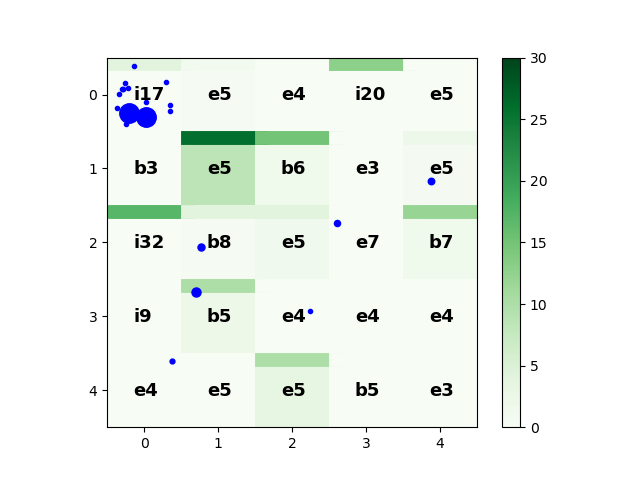
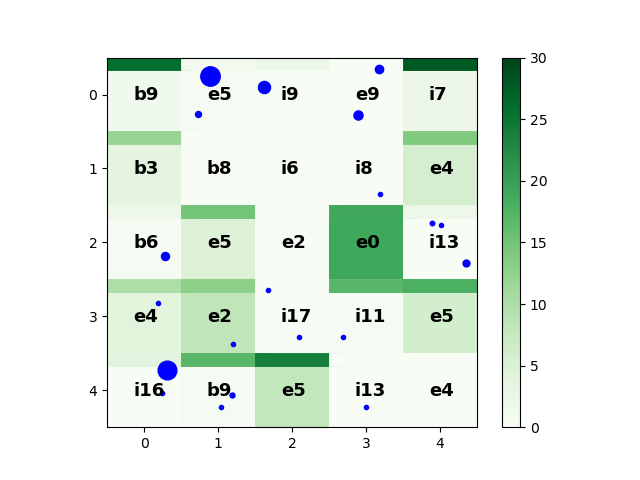
attempted implementing probCells

diff --git a/classScientist.py b/classScientist.py
@@ -6,8 +6,9 @@ class Scientist():
     def __init__(self):
         self.career = np.random.randint(1, 31)
         # citcount and impact corresponds to where you are in your career
-        self.impact = abs(np.random.randint(20 - self.career, 35 - self.career))
-        self.citcount = abs(np.random.randint(20 - self.career, 35 - self.career))
+        # they should be at least one so we don't divide by 0
+        self.impact = abs(np.random.randint(20 - self.career, 35 - self.career)) + 1
+        self.citcount = abs(np.random.randint(20 - self.career, 35 - self.career)) + 1
 
     def __repr__(self):
         """String representation of Scientist"""
@@ -17,30 +18,49 @@ class Scientist():
         """calculates starFactor based on scientist's parameters"""
         overall = ((self.impact-(31 - self.career)) + (self.citcount-(31 - self.career)))/(31 - self.career) 
         return overall
-    
-    def probCell(self, weights, board):
+
+    def probCell(self, board, weights):
         # Define the weights
-        c = weights["citation"]
-        i = weights["impact"]
+        c = weights["citation"] * (1/self.citcount)
+        i = weights["impact"] * (1/self.impact)
         e = weights["exploration"]
 
 
         # Calculate the probabilities for each cell
-        probabilities = np.zeros_like(board)
+        probabilities = np.zeros_like(board.board)
 
         denominator = 0
         for x in range(board.rows):
             for y in range(board.cols):
-                denominator += np.exp((c * self.citcount) + (i * self.impact) + (e * board[x, y]))
+                # i should be associated with board payoff value
+                # e should be associated with numHits on the cell
+                # c should be associated with num scientists on the cell
+                denominator += np.exp((c * board.board[x][y].numSciHits) + (i * board.board[x][y].payoff) + (e * board.board[x][y].numHits))
         for j in range(board.rows):
             for k in range(board.cols):
-                X1 = board[j, k]
+                X1 = board.board[j][k]
                 
-                numerator = np.exp((c * self.citcount) + (i * self.impact) + (e * X1))
+                numerator = np.exp((c * X1.numSciHits) + (i * X1.payoff) + (e * X1.numHits))
                 
-                probabilities[j, k] = numerator / denominator
+                probabilities[j][k] = numerator / denominator
 
         return probabilities
+
+    def chooseCell(self, board, weights):
+        """chooses cell to query"""
+        probs = self.probCell(board, weights)
+
+        flatProbs = [item for sublist in probs for item in sublist]
+        flatBoard = [board.board[i][j].location for j in range(board.cols) for i in range(board.rows)]
+        choice = random.choices(flatBoard, weights=flatProbs, k=1)
+
+        return choice[0]
+
+    def sciQuery(self, location, board):
+        """scientist queries chosen cell"""
+        self.impact += board.board[location[0]][location[1]].cellQuery(board)
+        self.career -= 1
+        return self.impact
 
     def citeProbs(self, val):
         """probability distribution of citing scientists in a cell"""
@@ -72,43 +92,3 @@ class Scientist():
                 if val[i] != self:
                     val[i].citcount += 1
         return
-
-    def probHerd(self):
-        """generate the probability of the scientist following the herd 
-        based on h index and career"""
-        pHerd = abs((self.impact-(31 - self.career))/(31 - self.career))
-        if (self.impact > (31 - self.career)):
-            if pHerd > 1:
-                pHerd = 0
-            else:
-                pHerd = 1 - pHerd
-        else:
-            if pHerd > 1:
-                pHerd = 1
-        return pHerd
-
-    def chooseCell(self, board, weights):
-        """decides which cell the scientist will query according to payoff"""
-        # dictionary of discovered cells' locations and payoff values
-        discoveredPayoffs = {}
-        maxPayoff = 0.0
-
-        for x in board.discovered:
-            discoveredPayoffs.update({board.board[x[0]][x[1]].payoff : board.board[x[0]][x[1]]})
-
-        choice = np.random.binomial(1, self.probHerd())
-        # choice = 1 --> they follow the herd
-        if (choice == 1 and len(list(discoveredPayoffs.keys())) > 0) or (choice == 0 and len(board.undiscovered) == 0):
-                maxPayoff = max(list(discoveredPayoffs.keys()))
-                location = discoveredPayoffs.get(maxPayoff).location
-        # choice = 0 --> choose randomly from undiscovered cells
-        else:
-            location = random.choice(board.undiscovered)
-
-        return location
-
-    def sciQuery(self, location, board):
-        """scientist queries chosen cell"""
-        self.impact += board.board[location[0]][location[1]].cellQuery(board)
-        self.career -= 1
-        return self.impact

diff --git a/classBoard.py b/classBoard.py
@@ -42,11 +42,11 @@ class Board():
                 # compare to original payoff color
                 plt.axhline(y = j-0.41, xmin = i/self.cols+0.019, xmax = (i+1)/self.cols+0.019, color=ogColors[j][i], linewidth=10)
                 # finding the number of scientists on each cell each round
-                numSciHits = 0
+                cell.numSciHits = 0
                 if cell.location in cellsHit.keys():
-                    numSciHits = len(cellsHit[cell.location])
+                    cell.numSciHits = len(cellsHit[cell.location])
                     # plotting the "dot" scientists
-                    for x in range(1, numSciHits + 1):
+                    for x in range(1, cell.numSciHits + 1):
                         scientist = cellsHit[cell.location][x-1]
                         starFactor = scientist.getStarFactor()
                         if starFactor < 0:

diff --git a/classCell.py b/classCell.py
@@ -10,6 +10,7 @@ class Cell():
         self.phase = Phase.experimental
         self.numHits = 0
         self.lowerx, self.upperx = self.logiFunc()
+        self.numSciHits = 0
 
     def __repr__(self):
         "string representation of Cell"
